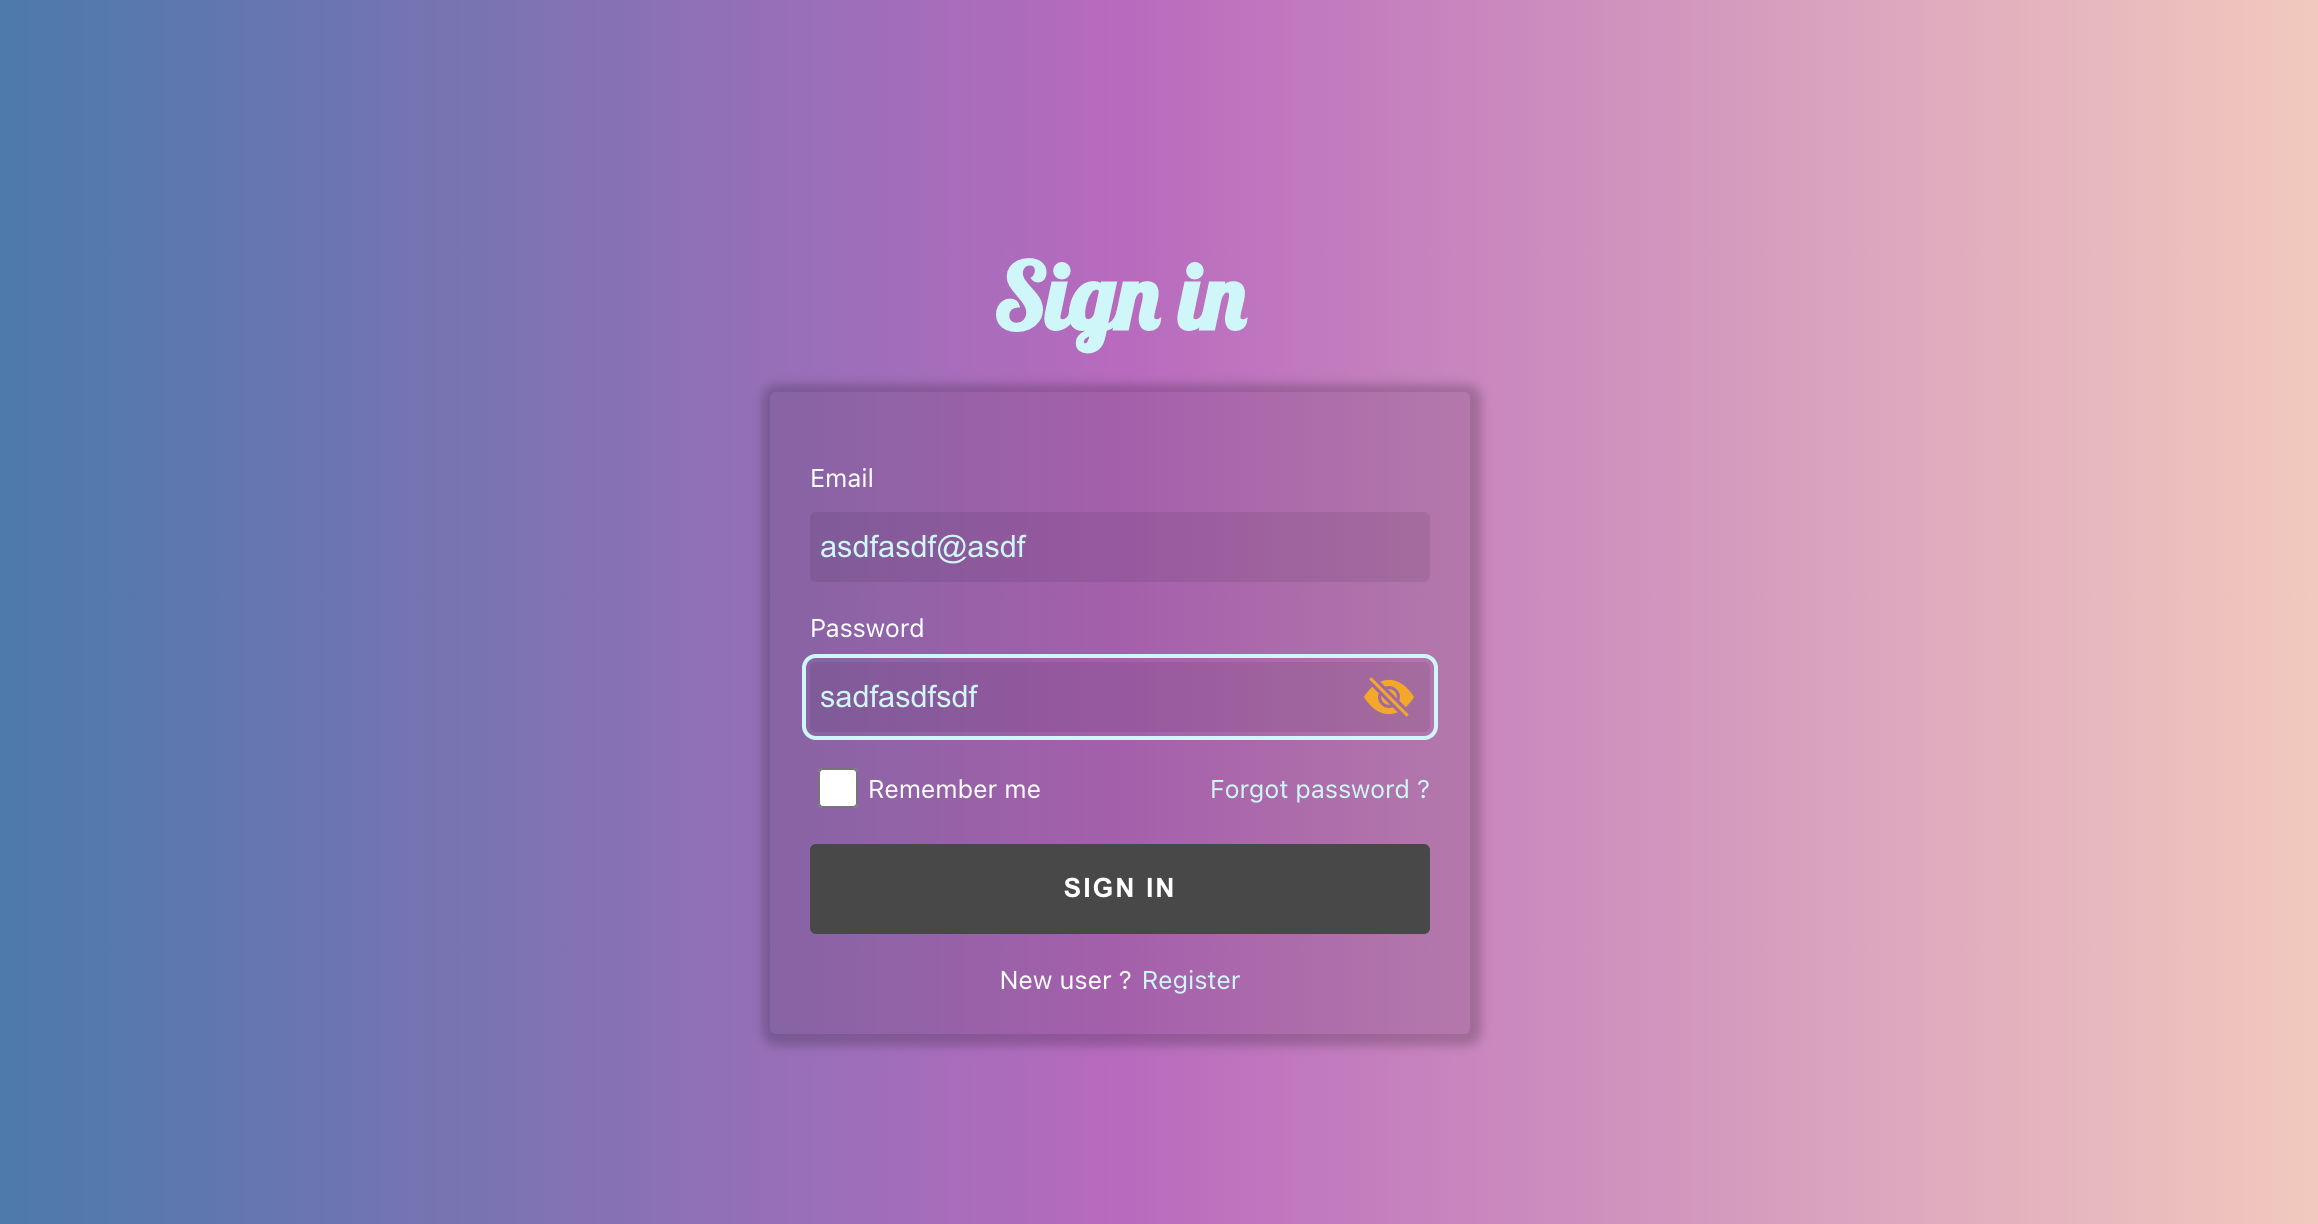
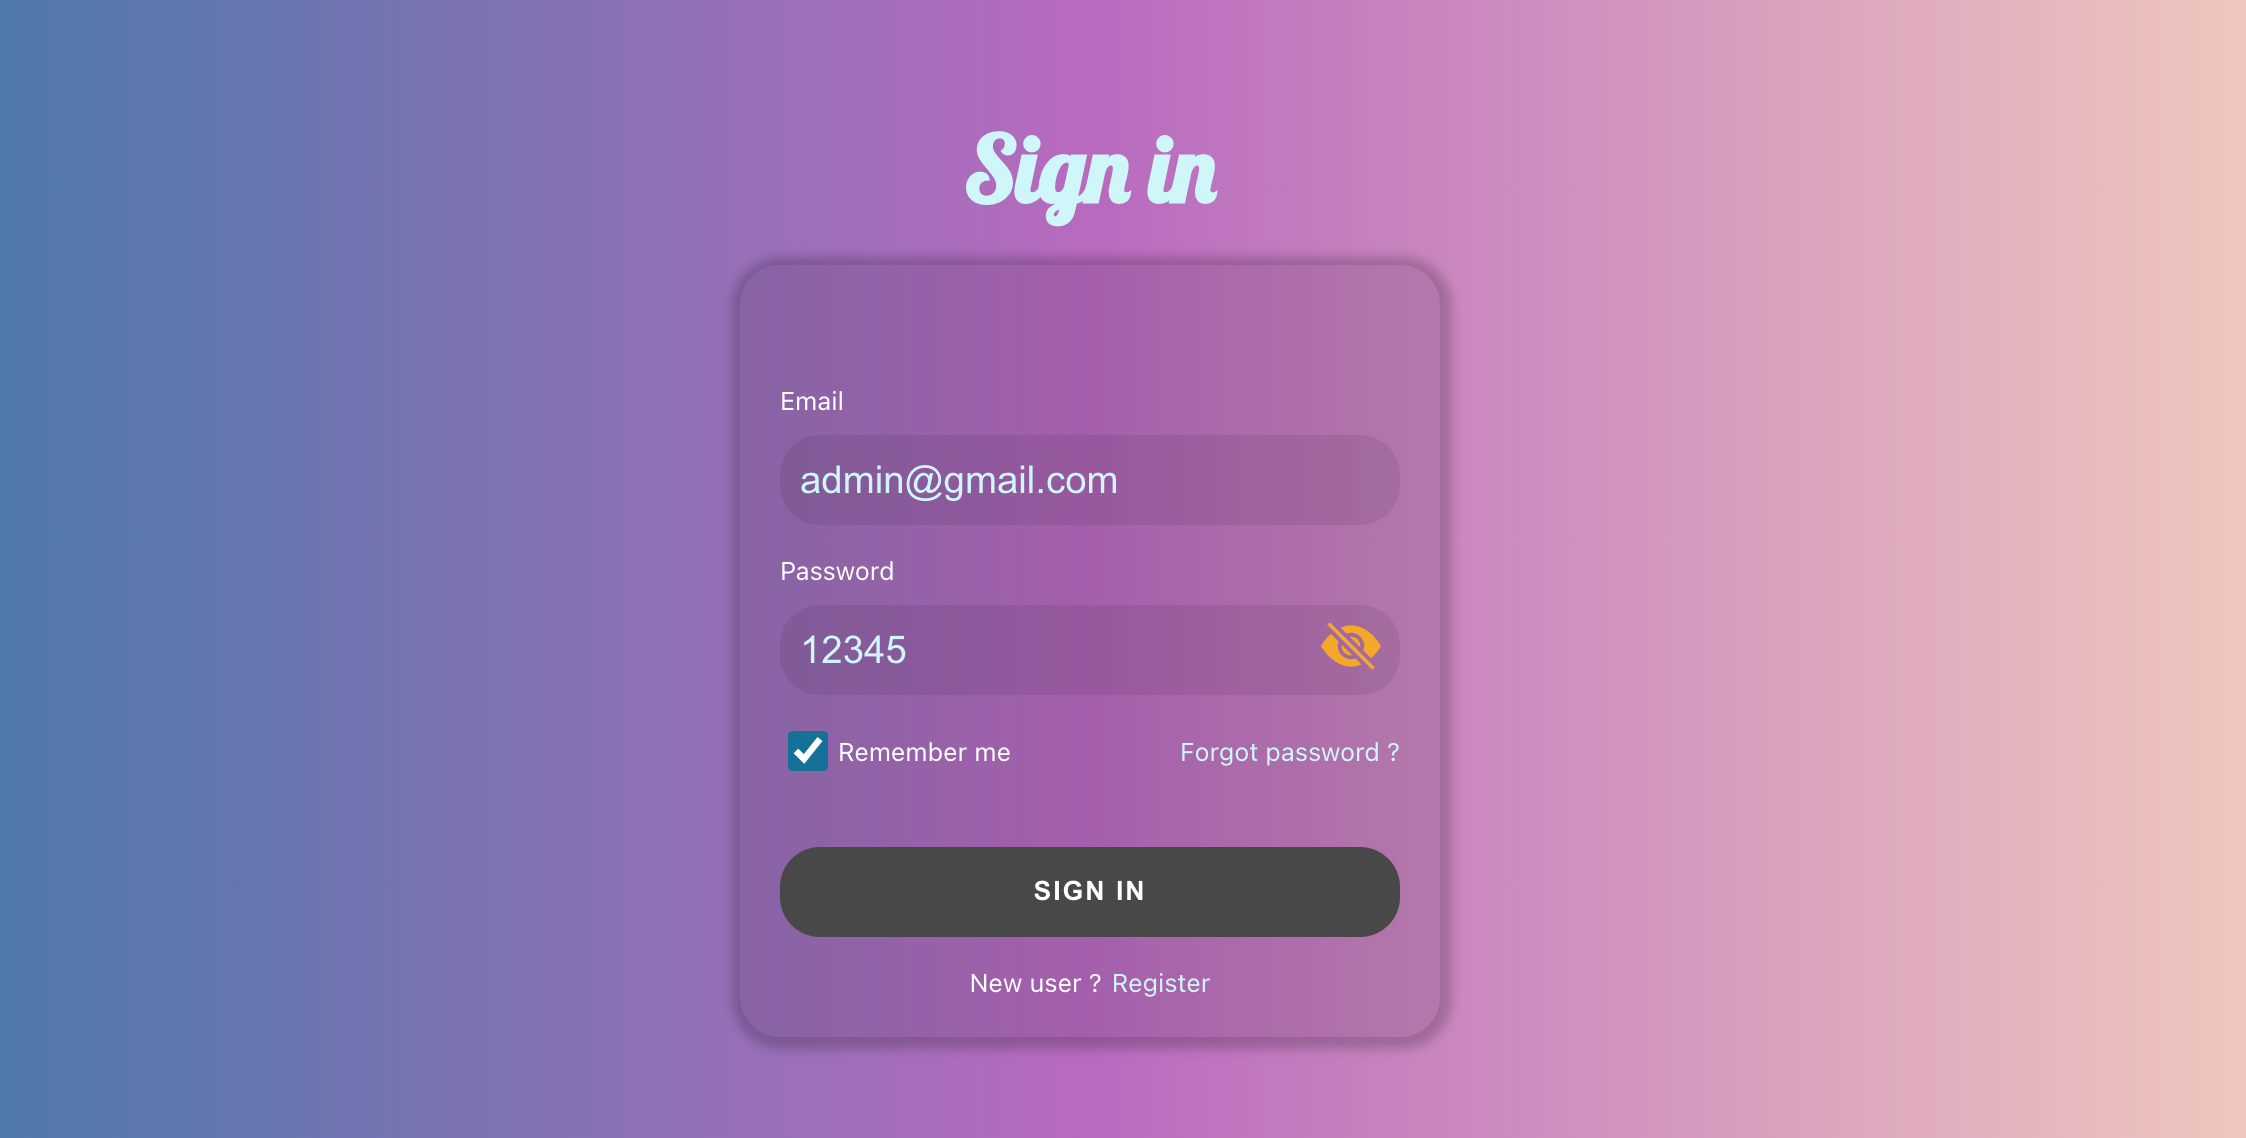
fix styles & change screenshots

Changed region(s): [[0.3117, 0.0923, 0.6545, 0.9227], [0.3428, 0.3383, 0.4987, 0.4613]]

diff --git a/src/components/LoginForm/PasswordField/PasswordFieldStyles.css b/src/components/LoginForm/PasswordField/PasswordFieldStyles.css
@@ -25,7 +25,7 @@
   background: none;
   position: absolute;
   top: 0;
-  right: 2px;
+  right: 4px;
 }
 
 .toggle-password-visibility:disabled,

diff --git a/src/index.css b/src/index.css
@@ -13,6 +13,7 @@ body {
   -moz-osx-font-smoothing: grayscale;
 
   height: 100%;
+  overflow: hidden;
 }
 
 code {

diff --git a/src/styles/main.css b/src/styles/main.css
@@ -13,6 +13,7 @@ body {
   -moz-osx-font-smoothing: grayscale;
 
   height: 100%;
+  overflow: hidden;
 }
 
 code {

diff --git a/src/components/ControlledInput/ControlledInputStyles.css b/src/components/ControlledInput/ControlledInputStyles.css
@@ -30,7 +30,7 @@
 }
 
 .padding-right {
-  padding-right: 35px;
+  padding-right: 40px;
 }
 
 .default-input {
